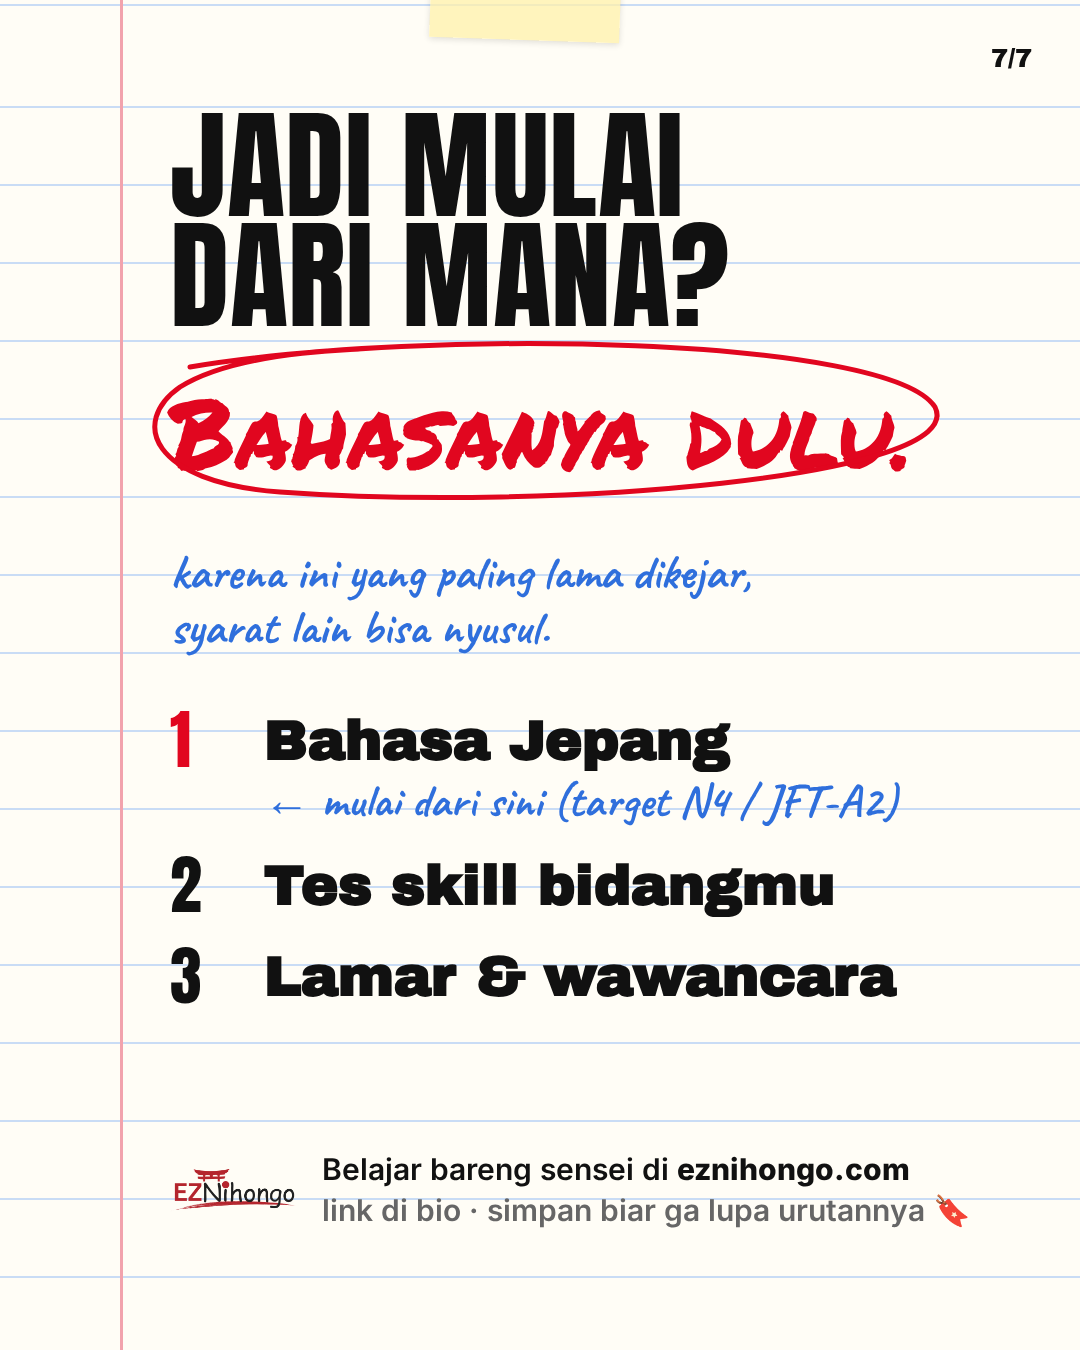
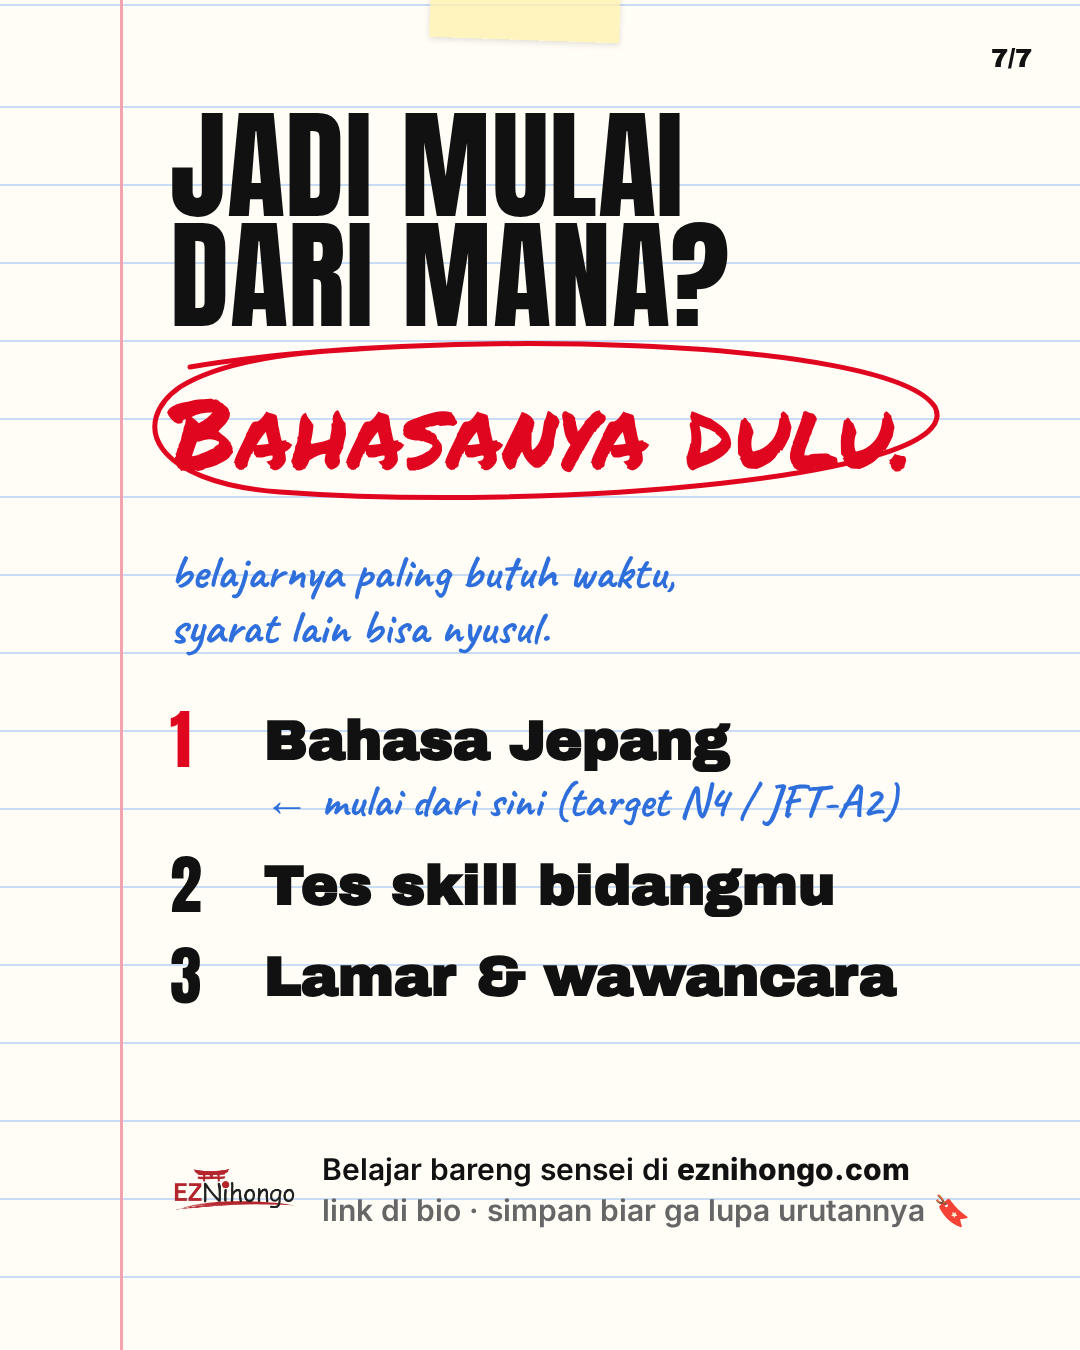
Carousel slide 7: ganti 'dikejar' jadi kalimat lebih natural
Claude-Session: https://claude.ai/code/session_01C3EzK71sv3fG4UwHrQoVjw

Changed region(s): [[0.1528, 0.4044, 0.7028, 0.4356]]

diff --git a/marketing/carousel-mandiri/video-carousel.html b/marketing/carousel-mandiri/video-carousel.html
@@ -184,7 +184,7 @@ html,body{width:1080px;height:1920px;overflow:hidden;background:#111}
       <span class="M" style="font-size:96px;color:var(--r)">Bahasanya dulu.</span>
       <svg class="d" style="left:-40px;top:-34px" width="840" height="190"><path d="M60 40 C 300 0, 760 10, 805 80 C 840 150, 420 185, 150 165 C 20 155, 0 95, 50 60 C 90 35, 160 25, 230 22" stroke="#E1061F" stroke-width="5" fill="none" stroke-linecap="round"/></svg>
     </div>
-    <p style="font-family:Caveat;font-weight:700;font-size:48px;color:var(--blue);line-height:1.15;margin-top:44px">karena ini yang paling lama dikejar,<br>syarat lain bisa nyusul.</p>
+    <p style="font-family:Caveat;font-weight:700;font-size:48px;color:var(--blue);line-height:1.15;margin-top:44px">belajarnya paling butuh waktu,<br>syarat lain bisa nyusul.</p>
     <div style="margin-top:56px">
       <div class="chk" style="margin-bottom:30px"><div class="A" style="font-size:64px;width:60px;color:var(--r)">1</div><div><b>Bahasa Jepang</b><span>← mulai dari sini (target N4 / JFT-A2)</span></div></div>
       <div class="chk" style="margin-bottom:30px"><div class="A" style="font-size:64px;width:60px">2</div><div><b>Tes skill bidangmu</b></div></div>

diff --git a/marketing/carousel-mandiri/carousel.html b/marketing/carousel-mandiri/carousel.html
@@ -174,7 +174,7 @@ svg.d{position:absolute;overflow:visible}
       <span class="M" style="font-size:96px;color:var(--r)">Bahasanya dulu.</span>
       <svg class="d" style="left:-40px;top:-34px" width="840" height="190"><path d="M60 40 C 300 0, 760 10, 805 80 C 840 150, 420 185, 150 165 C 20 155, 0 95, 50 60 C 90 35, 160 25, 230 22" stroke="#E1061F" stroke-width="5" fill="none" stroke-linecap="round"/></svg>
     </div>
-    <p style="font-family:Caveat;font-weight:700;font-size:48px;color:var(--blue);line-height:1.15;margin-top:44px">karena ini yang paling lama dikejar,<br>syarat lain bisa nyusul.</p>
+    <p style="font-family:Caveat;font-weight:700;font-size:48px;color:var(--blue);line-height:1.15;margin-top:44px">belajarnya paling butuh waktu,<br>syarat lain bisa nyusul.</p>
     <div style="margin-top:56px">
       <div class="chk" style="margin-bottom:30px"><div class="A" style="font-size:64px;width:60px;color:var(--r)">1</div><div><b>Bahasa Jepang</b><span>← mulai dari sini (target N4 / JFT-A2)</span></div></div>
       <div class="chk" style="margin-bottom:30px"><div class="A" style="font-size:64px;width:60px">2</div><div><b>Tes skill bidangmu</b></div></div>
